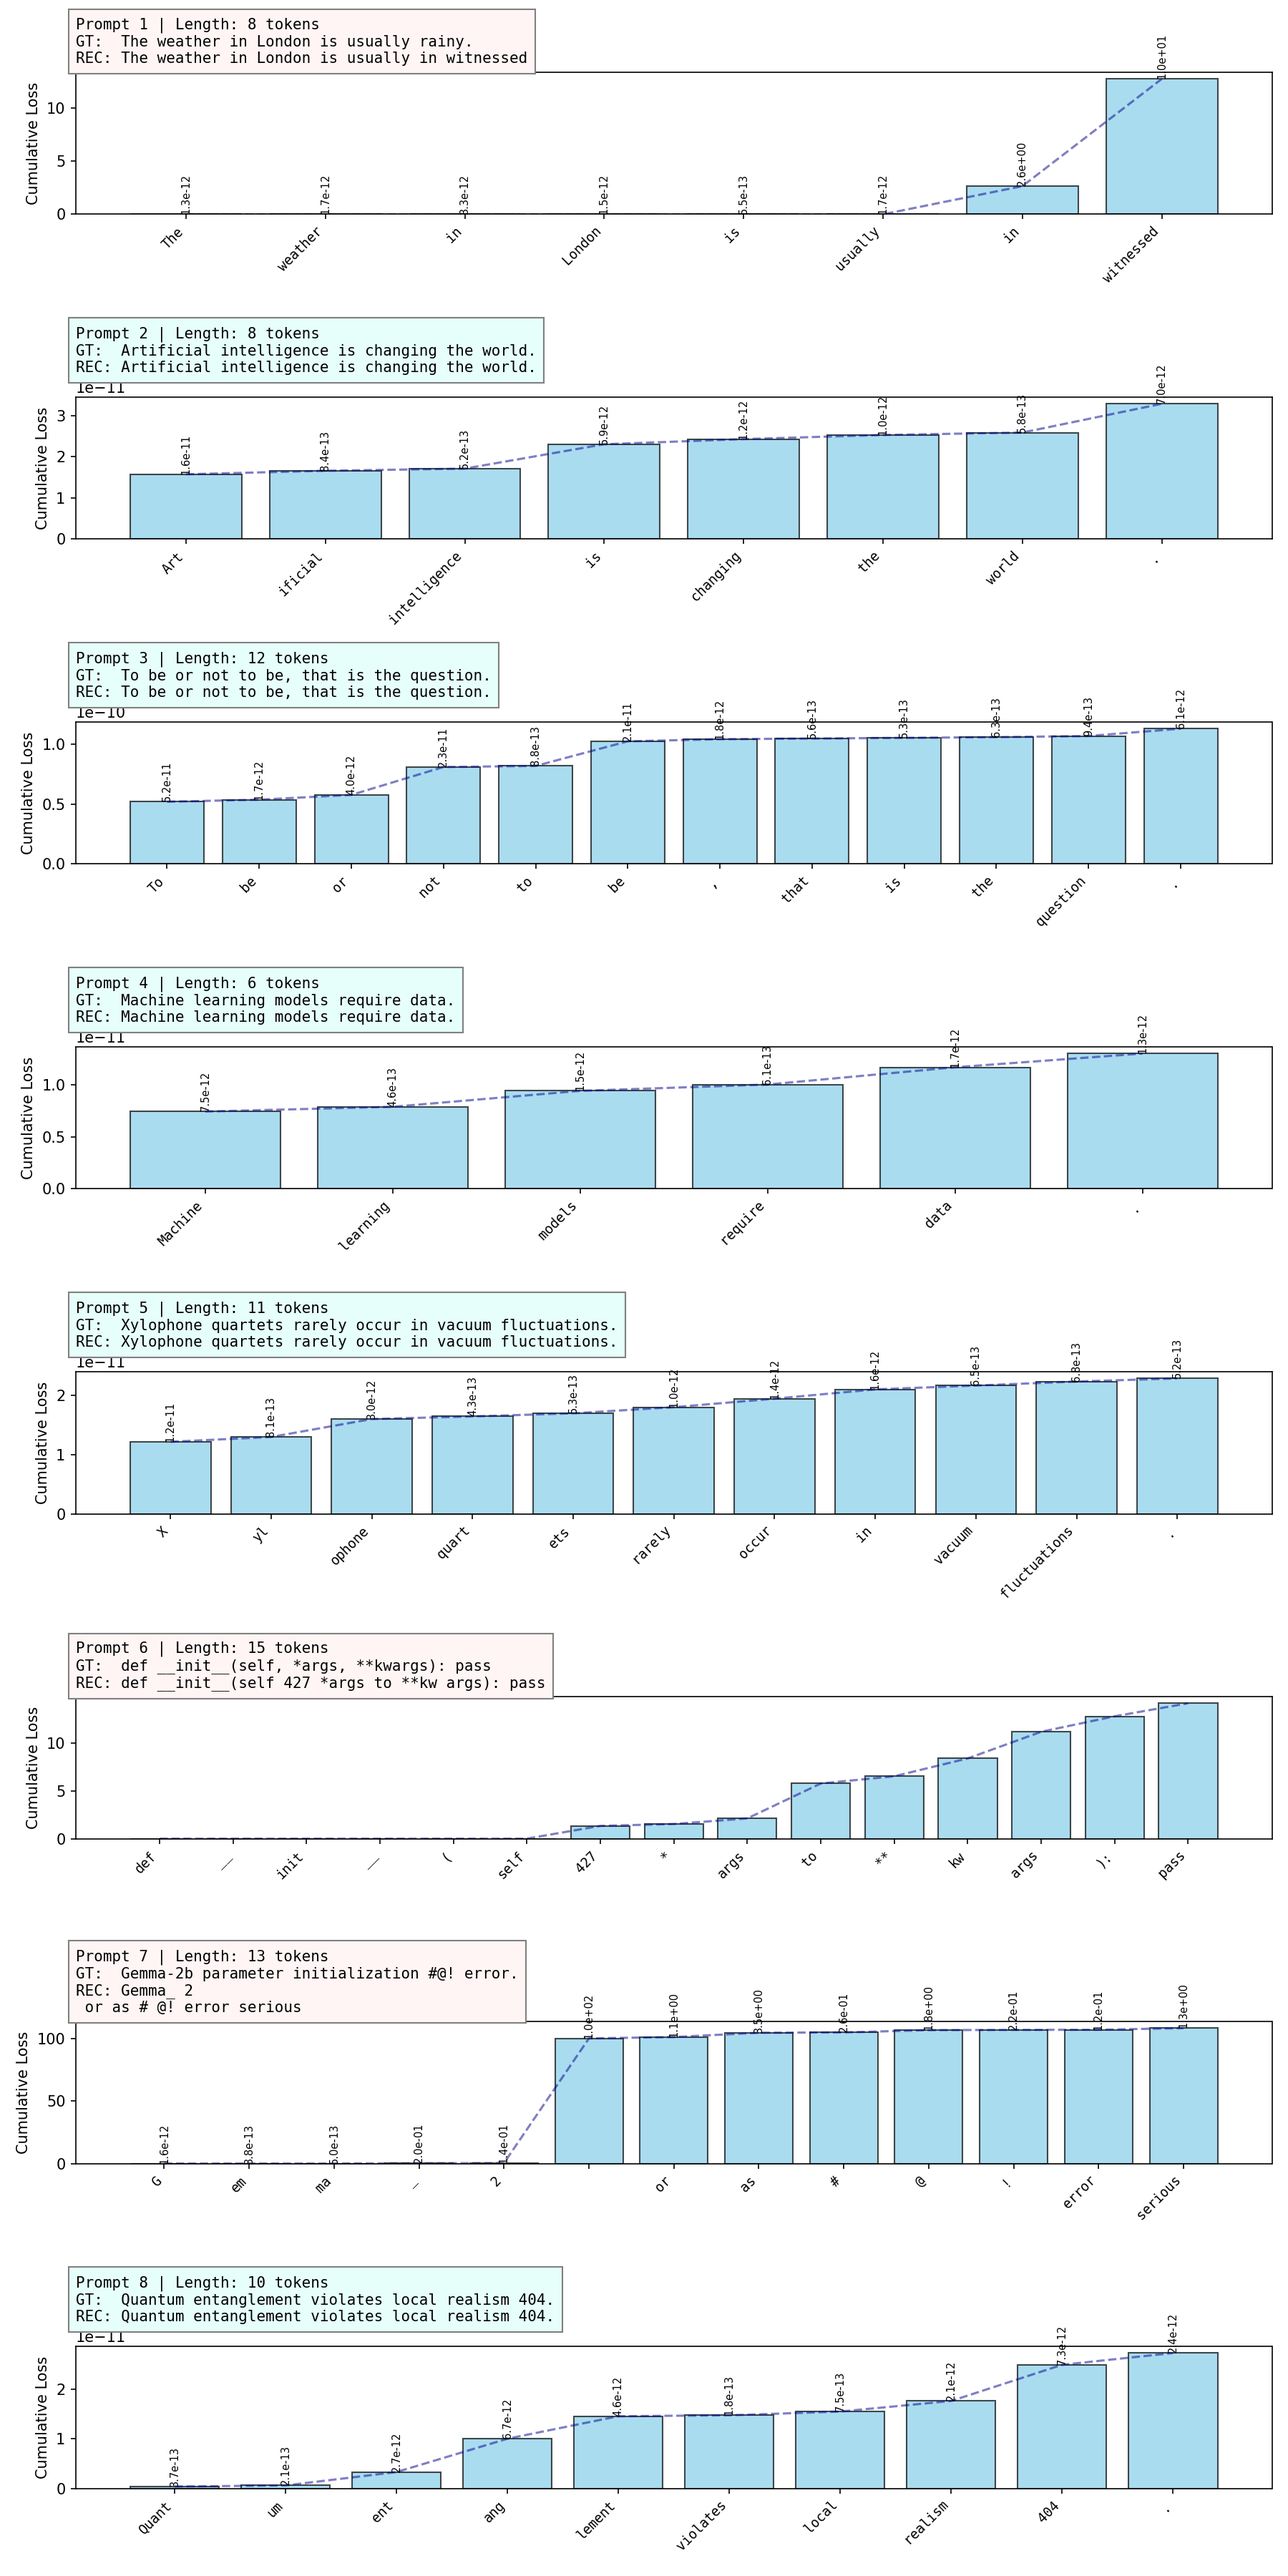
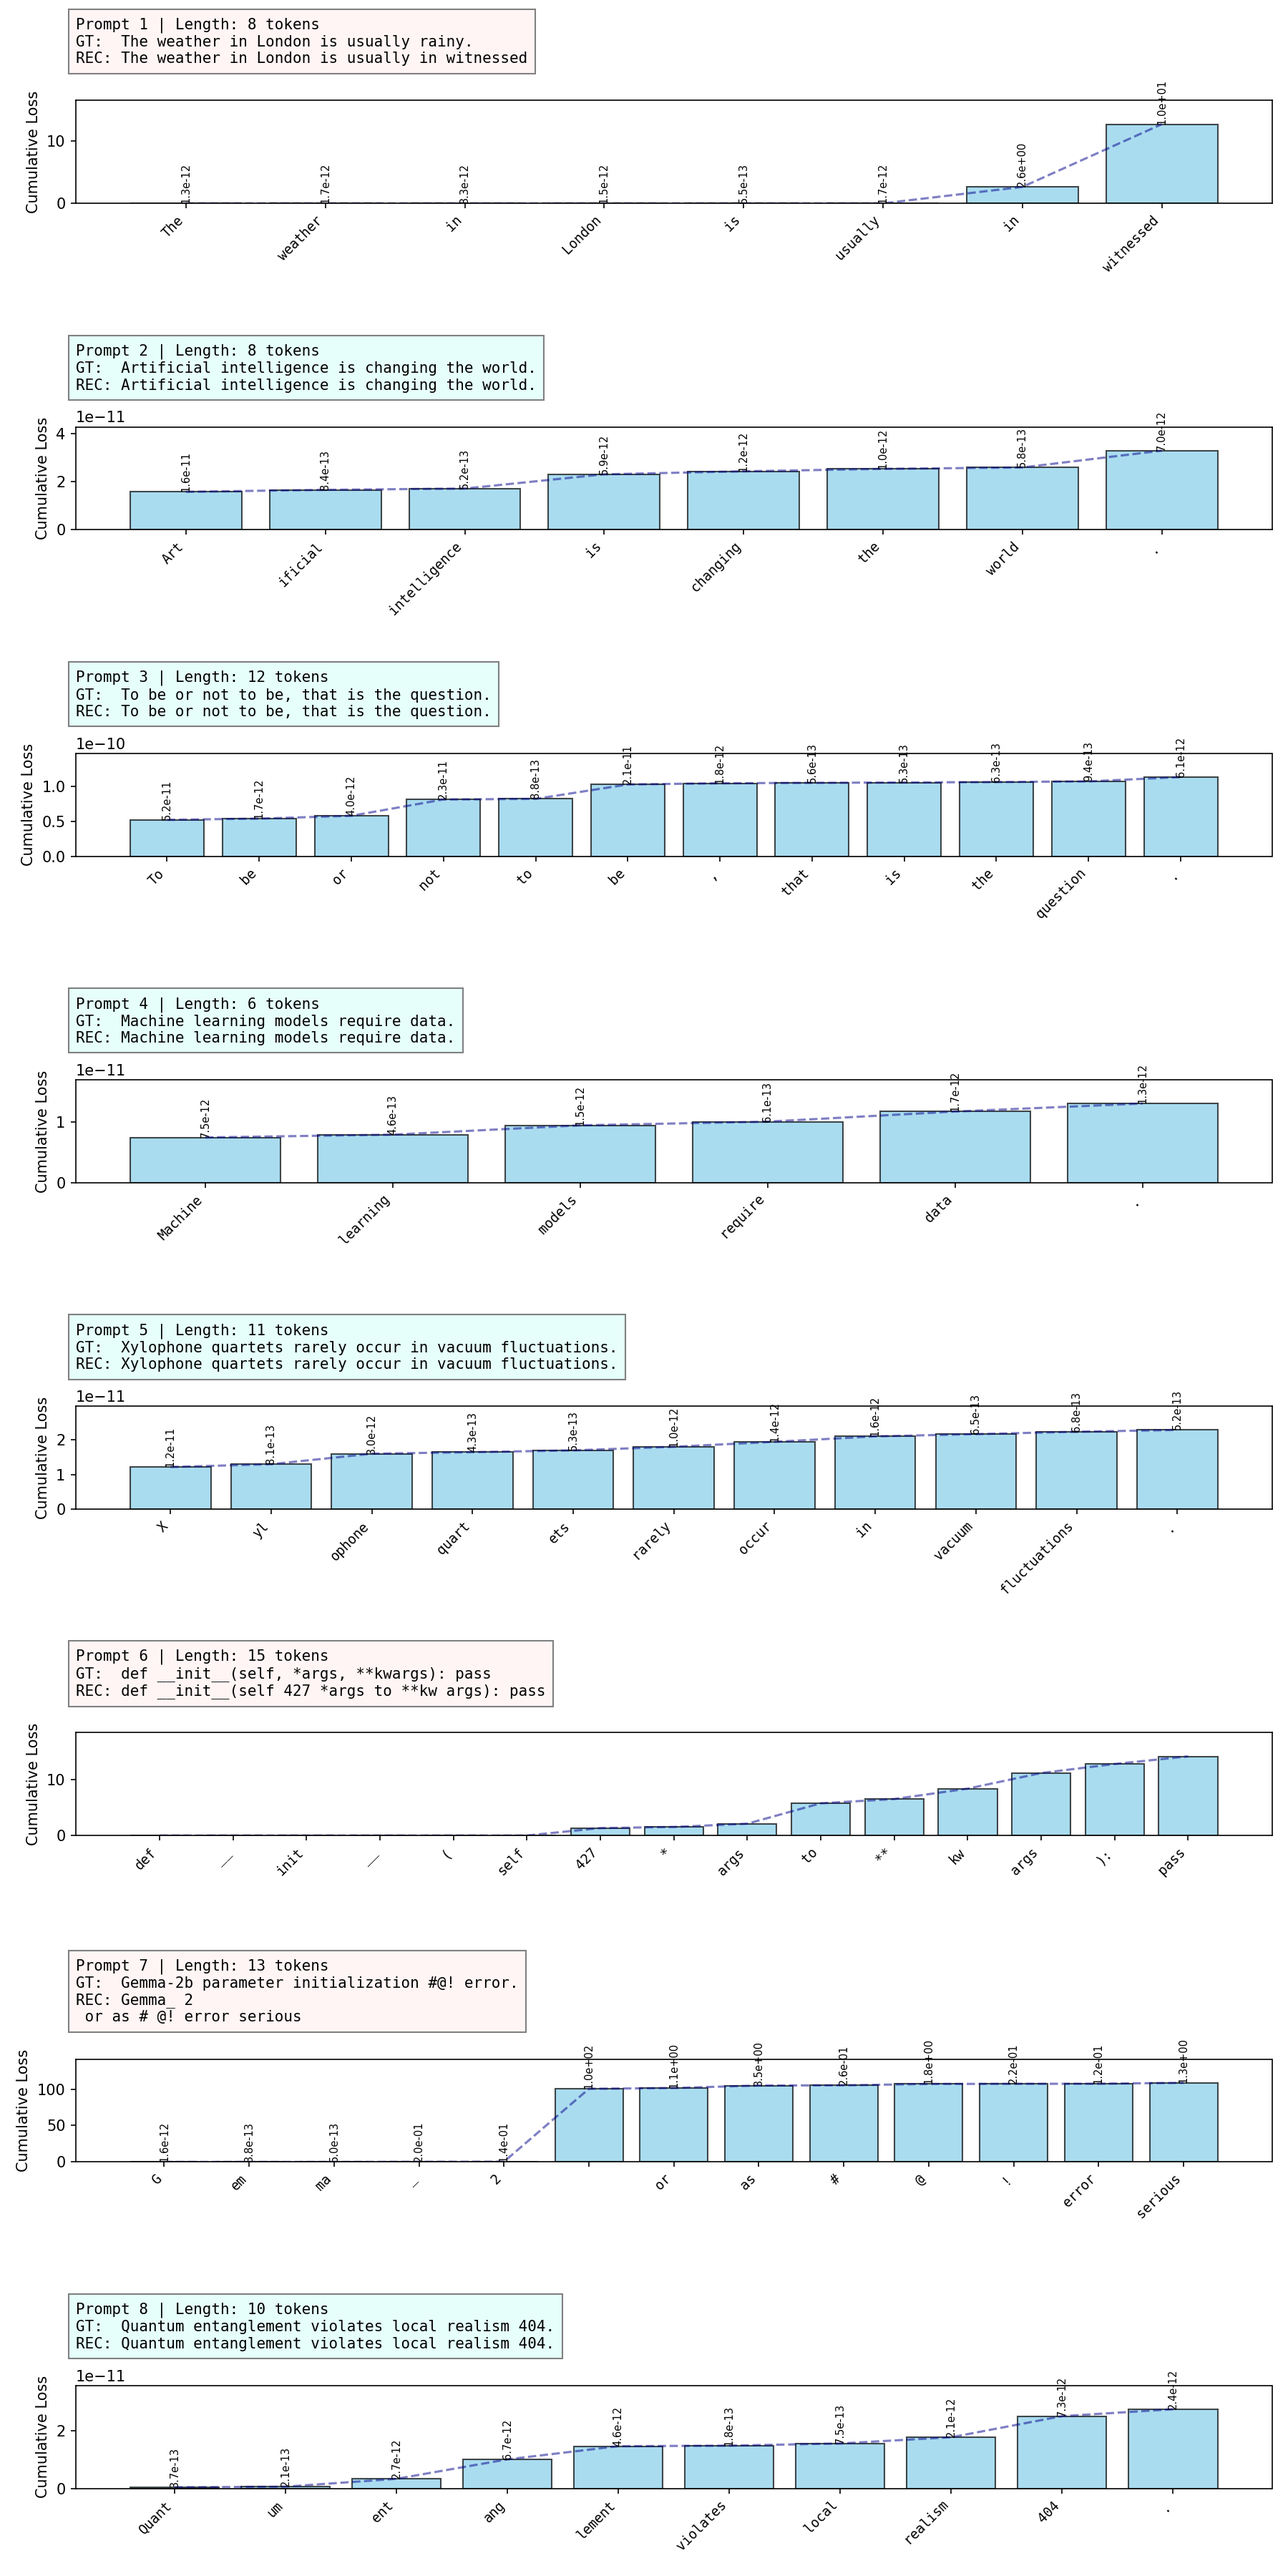
feat: update cumulative loss visualization with improved axis limits and layout adjustments

diff --git a/8plots.py b/8plots.py
@@ -66,11 +66,12 @@ def main():
         
         cumulative_losses = np.cumsum(final_losses)
         
+        ax.set_ylim(0, max(cumulative_losses) * 1.3)
+
         diffs = np.concatenate(([cumulative_losses[0]], np.diff(cumulative_losses)))
         colors = plt.cm.RdYlGn_r(diffs / (np.max(diffs) + 1e-9)) 
 
         bars = ax.bar(range(len(cumulative_losses)), cumulative_losses, color='skyblue', edgecolor='black', alpha=0.7)
-        
         ax.plot(range(len(cumulative_losses)), cumulative_losses, color='darkblue', linestyle='--', alpha=0.5)
 
         ax.set_xticks(range(len(tokens_str)))
@@ -87,7 +88,8 @@ def main():
         )
         
         ax.set_title(info_text, loc='left', fontsize=10, family='monospace', 
-                     bbox=dict(facecolor=title_bg, alpha=1.0, pad=5, edgecolor='gray'))
+                     bbox=dict(facecolor=title_bg, alpha=1.0, pad=5, edgecolor='gray'),
+                     pad=25) 
         
         if len(tokens_str) < 15:
             for idx, rect in enumerate(bars):
@@ -96,7 +98,7 @@ def main():
                         f'{final_losses[idx]:.1e}',
                         ha='center', va='bottom', fontsize=7, rotation=90)
 
-    plt.tight_layout()
+    plt.tight_layout(h_pad=3.0)
     plt.savefig(OUTPUT_FILE, dpi=150)
 
 if __name__ == "__main__":
